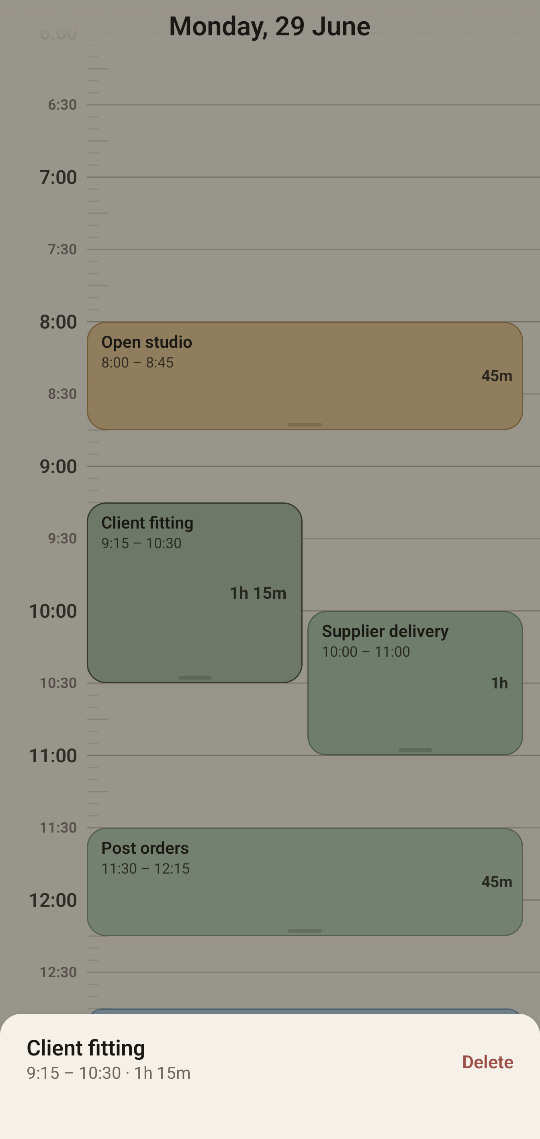
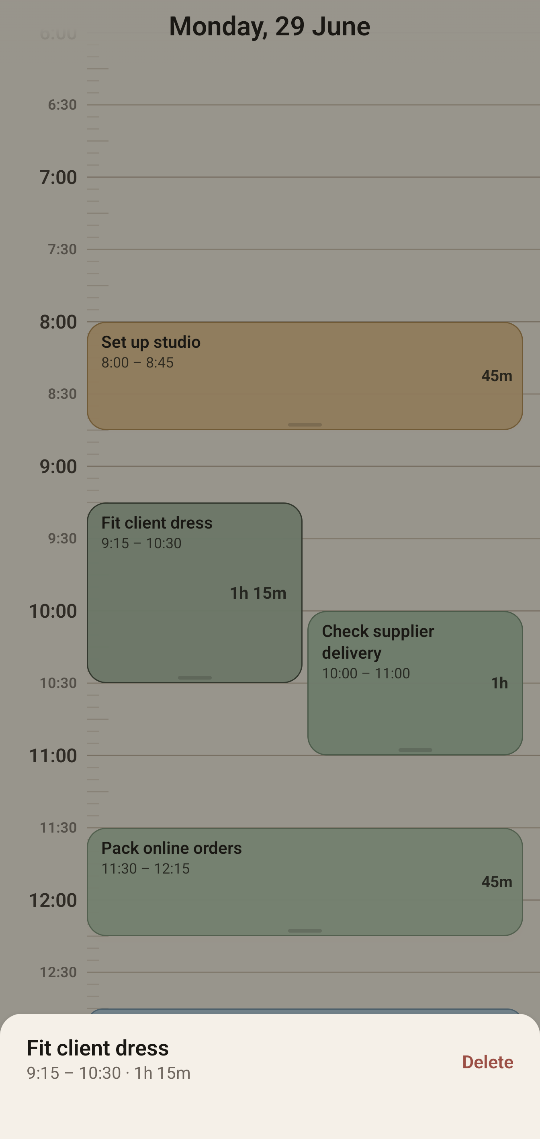
Make README screenshots task focused

diff --git a/app/src/androidTest/java/com/privateplanner/ui/ReadmeScreenshotTest.kt b/app/src/androidTest/java/com/privateplanner/ui/ReadmeScreenshotTest.kt
@@ -53,13 +53,13 @@ class ReadmeScreenshotTest {
 
         val today = LocalDate.now()
         setPlannerContent()
-        compose.waitUntilNodeWithText("School run")
+        compose.waitUntilNodeWithText("Pack school bags")
         captureRoot(outputDir.resolve("daytile-timeline.png"))
 
         compose.runOnUiThread {
             viewModel.jumpTo(today.plusDays(1))
         }
-        compose.waitUntilNodeWithText("Economics lecture")
+        compose.waitUntilNodeWithText("Review lecture notes")
         compose.runOnUiThread {
             viewModel.openCreate(10 * 60 + 45)
         }
@@ -71,7 +71,7 @@ class ReadmeScreenshotTest {
         compose.runOnUiThread {
             viewModel.jumpTo(today.plusDays(2))
         }
-        compose.waitUntilNodeWithText("Client fitting")
+        compose.waitUntilNodeWithText("Fit client dress")
         compose.runOnUiThread {
             viewModel.openActions(302L)
         }
@@ -109,22 +109,22 @@ class ReadmeScreenshotTest {
     private suspend fun PlannerDatabase.seedReadmeBlocks() {
         val today = LocalDate.now()
         val blocks = listOf(
-            block(101, today, "School run", 8 * 60, 30),
-            block(102, today, "Builder arrival window", 9 * 60, 120),
-            block(103, today, "Dentist appointment", 9 * 60 + 30, 45),
+            block(101, today, "Pack school bags", 8 * 60, 30),
+            block(102, today, "Clear kitchen for builder", 9 * 60, 120),
+            block(103, today, "Drive to dentist", 9 * 60 + 30, 45),
             block(104, today, "Call plumber", 11 * 60 + 45, 15),
-            block(105, today, "Lunch with Mum", 12 * 60 + 30, 45),
-            block(106, today, "Football practice", 16 * 60, 60),
-            block(201, today.plusDays(1), "Economics lecture", 8 * 60 + 30, 90),
-            block(202, today.plusDays(1), "Seminar prep", 10 * 60 + 15, 30),
-            block(203, today.plusDays(1), "Group presentation", 11 * 60 + 15, 45),
-            block(204, today.plusDays(1), "Library shift", 13 * 60, 120),
-            block(205, today.plusDays(1), "Train home", 16 * 60 + 30, 35),
-            block(301, today.plusDays(2), "Open studio", 8 * 60, 45),
-            block(302, today.plusDays(2), "Client fitting", 9 * 60 + 15, 75),
-            block(303, today.plusDays(2), "Supplier delivery", 10 * 60, 60),
-            block(304, today.plusDays(2), "Post orders", 11 * 60 + 30, 45),
-            block(305, today.plusDays(2), "Staff rota", 12 * 60 + 45, 25)
+            block(105, today, "Cook lunch with Mum", 12 * 60 + 30, 45),
+            block(106, today, "Take kit to football", 16 * 60, 60),
+            block(201, today.plusDays(1), "Review lecture notes", 8 * 60 + 30, 90),
+            block(202, today.plusDays(1), "Draft seminar answer", 10 * 60 + 15, 30),
+            block(203, today.plusDays(1), "Rehearse group slides", 11 * 60 + 15, 45),
+            block(204, today.plusDays(1), "Work library desk", 13 * 60, 120),
+            block(205, today.plusDays(1), "Catch train home", 16 * 60 + 30, 35),
+            block(301, today.plusDays(2), "Set up studio", 8 * 60, 45),
+            block(302, today.plusDays(2), "Fit client dress", 9 * 60 + 15, 75),
+            block(303, today.plusDays(2), "Check supplier delivery", 10 * 60, 60),
+            block(304, today.plusDays(2), "Pack online orders", 11 * 60 + 30, 45),
+            block(305, today.plusDays(2), "Write staff rota", 12 * 60 + 45, 25)
         )
         blocks.forEach { block ->
             blockDao().insertBlock(block)

diff --git a/README.md b/README.md
@@ -5,9 +5,9 @@ Daytile is a private offline Android timeline planner.
 ## Screenshots
 
 <p>
-  <img src="docs/readme/daytile-timeline.png" alt="Daytile family timeline with appointments and errands" width="240">
-  <img src="docs/readme/daytile-create.png" alt="Daytile student schedule with create task sheet" width="240">
-  <img src="docs/readme/daytile-actions.png" alt="Daytile small business schedule with block actions sheet" width="240">
+  <img src="docs/readme/daytile-timeline.png" alt="Daytile family timeline with planned tasks" width="240">
+  <img src="docs/readme/daytile-create.png" alt="Daytile student plan with create task sheet" width="240">
+  <img src="docs/readme/daytile-actions.png" alt="Daytile small business plan with block actions sheet" width="240">
 </p>
 
 Daytile has no account system, no network permission, no analytics, and stores planner data only in a local Room database. Backup and device-transfer extraction are disabled.